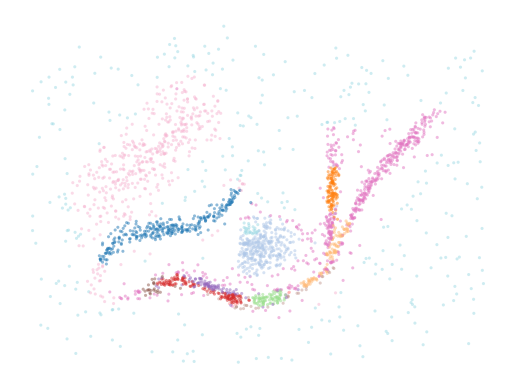
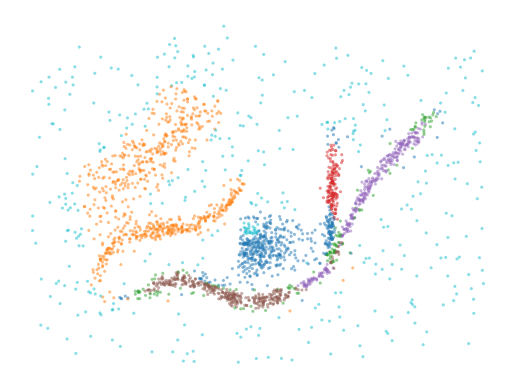
update readme

diff --git a/README.md b/README.md
@@ -33,15 +33,14 @@ import matplotlib.pyplot as plt
 
 from biperscan import BPSCAN
 
-data = np.load("./notebooks/data/flared_clusterable_data.npy")
+data = np.load("./notebooks/data/flared/flared_clusterable_data.npy")
 
 clusterer = BPSCAN(
     lens='negative_distance_to_median', # the lens function to use
     metric='euclidean',                 # same as in HDBSCAN
-    min_samples=25,                     # same as in HDBSCAN
+    min_samples=20,                     # same as in HDBSCAN
     min_cluster_size=80,                # same as in HDBSCAN
     distance_fraction=0.05,             # suppress noise at lower values
-    max_label_depth=1,                  # coarser clusters at lower depths
 ).fit(data)
 
 plt.figure()
